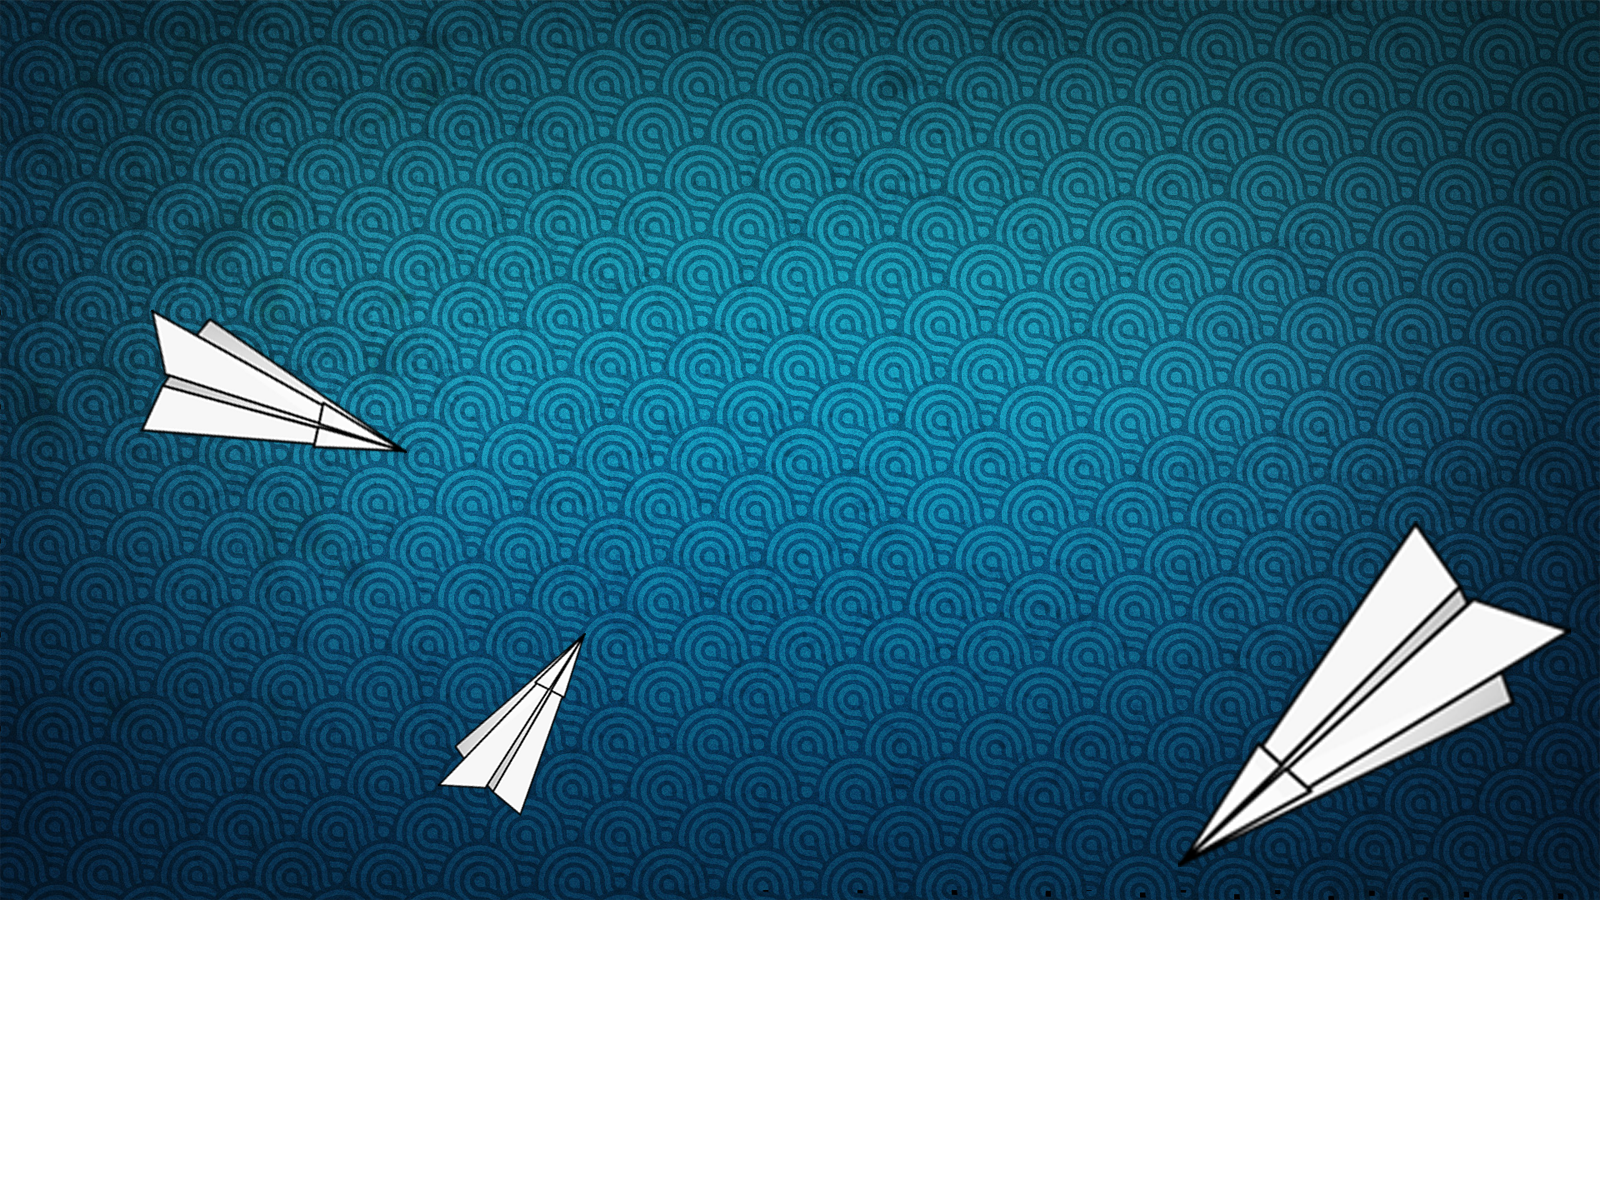
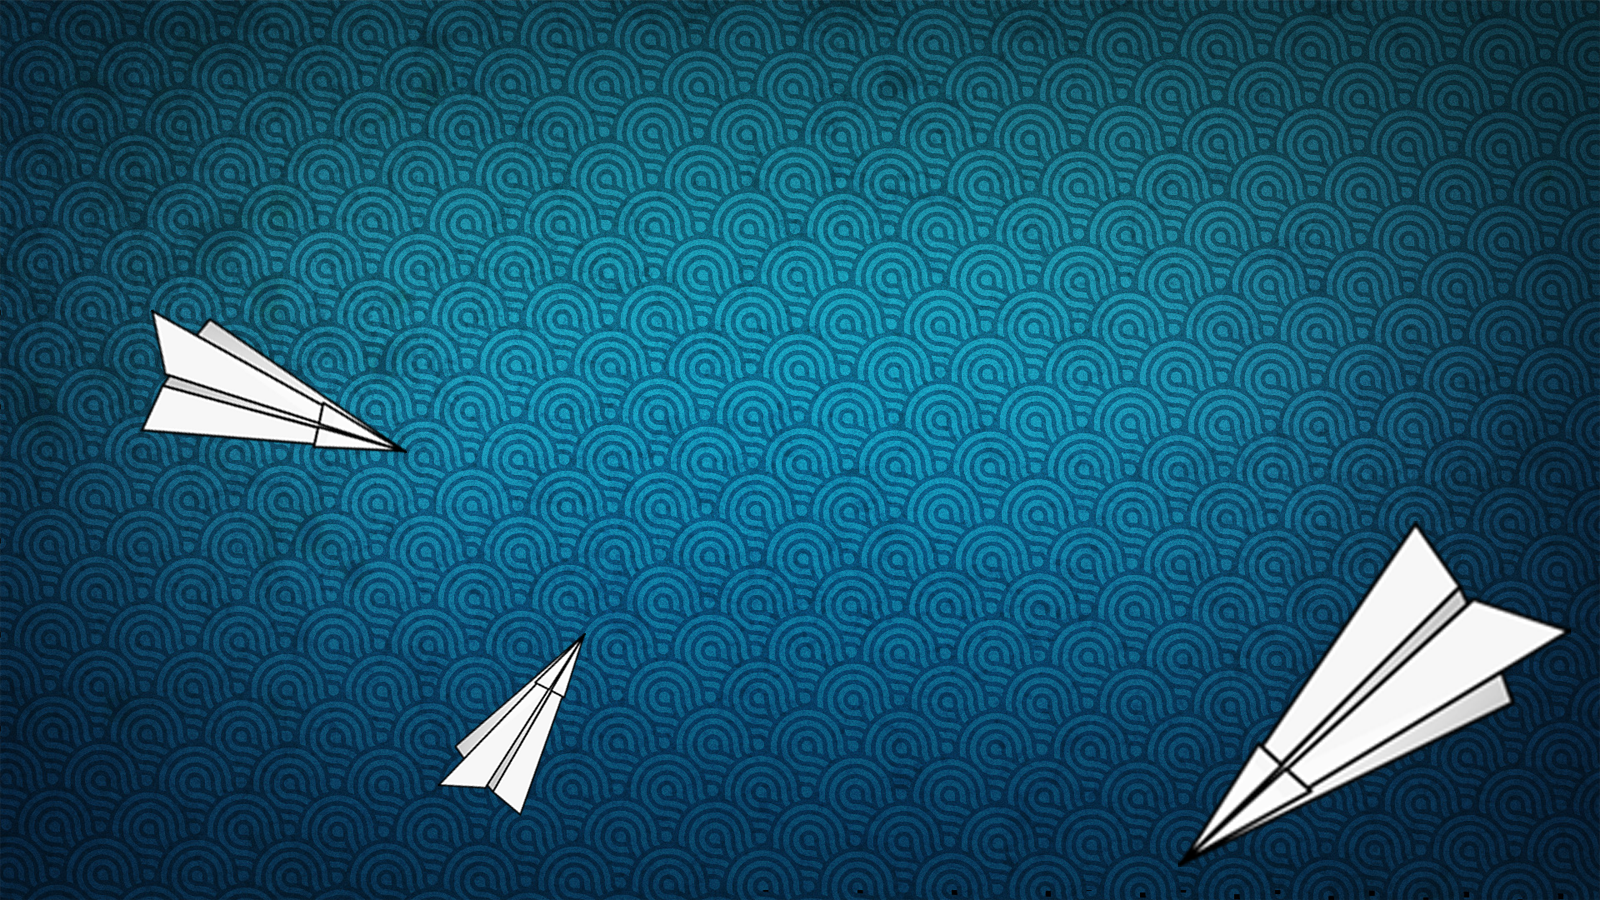
Weather text, minor style changes
- Added custom text for each condition.
- Background image for splash section centered and cropped.

diff --git a/components/WeatherText.js b/components/WeatherText.js
@@ -1,0 +1,25 @@
+import React, { Component } from 'react'
+import changeCase from 'change-case'
+import styles from './User.scss'
+
+let text = {
+  ClearDay: "Remember, sunscreen is a gift from your past self to your future self",
+  ClearNight: "Have a good flight!",
+  Cloudy: "Have a good flight!",
+  Fog: "Yellow lights save lives",
+  PartlyCloudyDay: "Have a good flight!",
+  PartlyCloudyNight: "Have a good flight!",
+  Rain: "Don't go out without an umbrella!",
+  Sleet: "Lord Stark sends his regards",
+  Snow: "Lord Stark sends his regards",
+  Wind: "You didn’t have any clothes drying outside, did you?"
+};
+
+export default class WeatherText extends Component {
+  render() {
+    let type = changeCase.pascalCase(this.props.weather);
+    return (
+      <p className={styles.subtext}>{text[type]}</p>
+    )
+  }
+}

diff --git a/components/User.js b/components/User.js
@@ -4,6 +4,7 @@ import numeral from 'numeral'
 import classnames from 'classnames'
 import Spinner from './Spinner'
 import WeatherIcon from './WeatherIcon'
+import WeatherText from './WeatherText'
 
 import styles from './User.scss'
 import appStyles from '../containers/App.scss'
@@ -27,8 +28,7 @@ export default class User extends Component {
           <p className={styles.text}>The likelyhood of your flight being delayed:</p>
           <p className={styles.probability}>{this.percentage()}</p>
         </div>
-        <p className={styles.subtext}>Don't go out without an umbrella!</p>
-
+        {this.props.weather && <WeatherText weather={this.props.weather.currently.icon} />}
       </div>
     )
     //        {departureAirportFsCode} to        {arrivalAirportFsCode}<br/>

diff --git a/index.html b/index.html
@@ -5,7 +5,6 @@
     <meta charset="utf-8">
     <meta name="viewport" content="width=device-width, initial-scale=1">
     <link href="https://fonts.googleapis.com/css?family=Open+Sans" rel="stylesheet" type="text/css">
-    <link href="https://fonts.googleapis.com/css?family=Lato" rel="stylesheet" type="text/css">
     <style>
       /* Override default CSS position rule for React date picker */
       .rdtPicker {

diff --git a/containers/App.scss b/containers/App.scss
@@ -26,6 +26,7 @@
   background-size: cover;
   background-repeat: no-repeat;
   background-image: url('../img/FlytoBackground.png');
+  background-position: center;
   -webkit-box-flex: 1;
   -webkit-flex: 1 1 auto;
     -ms-flex: 1 1 auto;

diff --git a/components/User.scss b/components/User.scss
@@ -30,6 +30,8 @@
   font-size: 40px;
   padding: 0;
   margin: 0;
+  text-align: center;
+  text-transform: uppercase;
 }
 
 .results {
